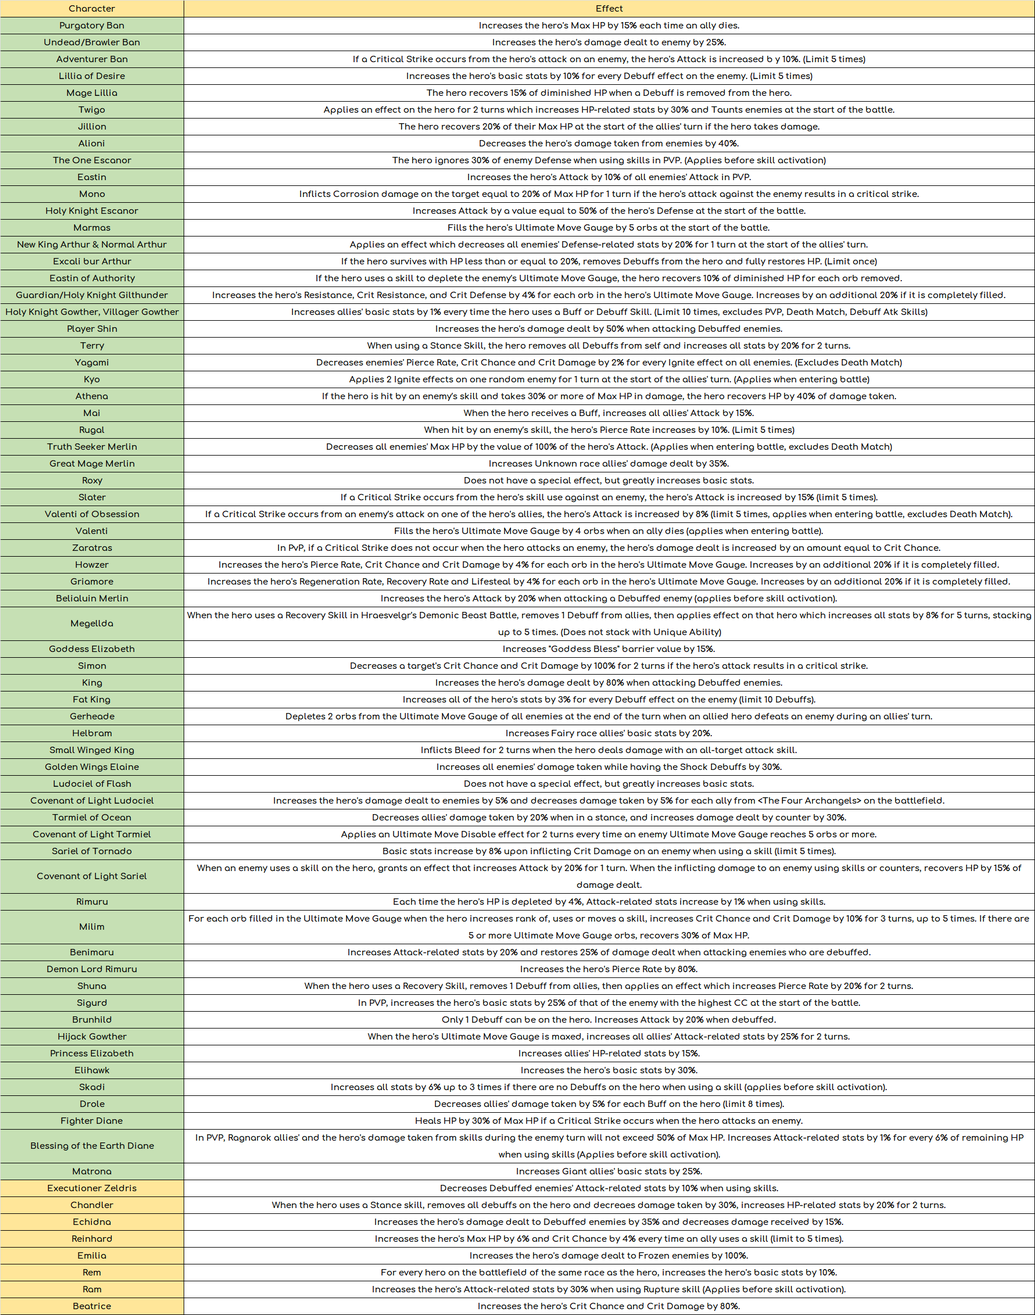
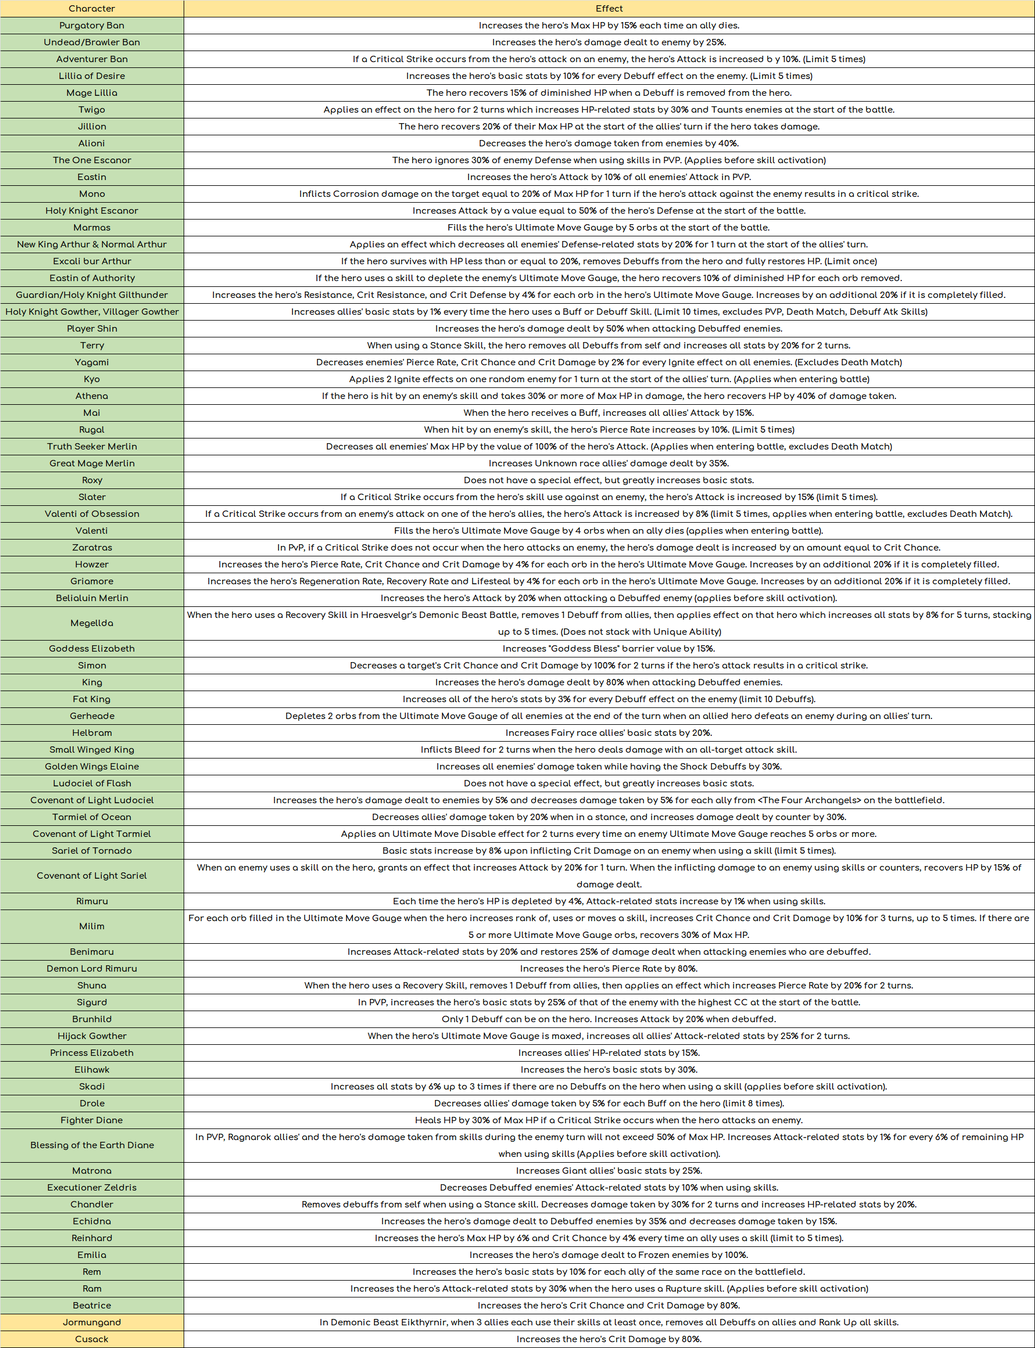
patch notes

Changed region(s): [[0.0, 0.0, 1.0, 1.0]]

diff --git a/patchnotes.html b/patchnotes.html
@@ -115,164 +115,82 @@
 				<div class="container pb-3 img-responsive" style="text-align: center; justify-content: center;">
 					<img src="https://7taizai.netmarble.jp/file/imgs/a32a7270.png" style="max-width:100%; max-height:100%;" loading="lazy">
 				</div>
-<!--
+
 				<hr style="border-color: white">
 
-				<p><b><u>■ New PVE content - Labyrinth</u></b></p>
+				<p><b><u>■ Chapter 24.5</u></b></p>
 				<div class="container pb-3 img-responsive" style="text-align: center; justify-content: center;">
-					<img src="https://7taizai.netmarble.jp/file/imgs/77670cbd.png" style="max-width:100%; max-height:100%;" loading="lazy">
-					<img src="https://7taizai.netmarble.jp/file/imgs/d9c2fdcf.png" style="max-width:100%; max-height:100%;" loading="lazy">
-				</div>
-				<p>・ 30 AP per entry</p>
-				<p>・ Max 4 unit (no links)</p>
-				<p>・ Characters used will all start with SSR Lv.1 stats (you need to own the character, the unique skill is unlocked)</p>
-				<p>・ Venture into the labyrinth, make your character stronger and conquer the labyrinth</p>
-				<p>・ Rogue-like style, if failed -> start from beginning</p>
-				<p>・ No artifact, equipment, costume, relic and zodiac stats will be used</p>
-				<p>・ Accumulate "passives" earned throughout the labyrinth</p>
-				<p>・ Earn item to level up, awaken and level up ult (?) and grow your character</p>
-				<p>Item drop [Fragment of Labyrinth]</p>
-				<div class="container pb-3 img-responsive" style="text-align: center; justify-content: center;">
-					<img src="https://7taizai.netmarble.jp/file/imgs/ef2d19cf.png" style="max-width:100%; max-height:100%;" loading="lazy">
-				</div>
-				<p>Completion reward</p>
-				<div class="container pb-3 img-responsive" style="text-align: center; justify-content: center;">
-					<img src="https://7taizai.netmarble.jp/file/imgs/1f600850.png" style="max-width:100%; max-height:100%;" loading="lazy">
+					<img src="https://7taizai.netmarble.jp/file/imgs/83b621f6.png" style="max-width:100%; max-height:100%;" loading="lazy">
 				</div>
 
 				<hr style="border-color: white">
 
 				<p><b><u>■ New Costumes</u></b></p>
 				<div class="container pb-3 img-responsive" style="text-align: center; justify-content: center;">
-					<img src="https://7taizai.netmarble.jp/file/imgs/998681cc.png" style="max-width:100%; max-height:100%;" loading="lazy">
+					<img src="https://7taizai.netmarble.jp/file/imgs/35620662.png" style="max-width:100%; max-height:100%;" loading="lazy">
 				</div>
 				<div class="container pb-3 img-responsive" style="text-align: center; justify-content: center;">
-					<img src="https://7taizai.netmarble.jp/file/imgs/7a7e60c4.png" style="max-width:100%; max-height:100%;" loading="lazy">
+					<img src="https://7taizai.netmarble.jp/file/imgs/a3eca76d.png" style="max-width:100%; max-height:100%;" loading="lazy">
 				</div>
 
-				<p><b><u>■ Artifact related to demonic beast battles added</u></b></p>
+				<p><b><u>■ Artifact Card Added (DL Celebration)</u></b></p>
 				<div class="container pb-3 img-responsive" style="text-align: center; justify-content: center;">
-					<p>In Demonic Beast Battle, increases basic stats of allies by 2/4/6/8/10%, nullify Freeze effect when you have 5 or more ultimate move gauge orbs. <br>Card pack obtainable from: Demonic Beast Eikthyrnir, Yggdrasil exchange shop, PVP shop, tower of trial floor 22, village shop</p>
+					<p>Increases HP-related stats of Unknown race allies by 1/2/3/4/5%, decreases damage taken by allies with Debuffs by 2/4/6/8/10%. <br>Card pack obtainable from: Hawk's Lucky Card Event, Hawk Exchange</p>
 				</div>
 
 				<hr style="border-color: white">
 
 				<p><b><u>■ Relic</u></b></p>
-				<p>Chandler: When the hero uses a Stance skill, removes all debuffs on the hero and decreaes damage taken by 30%, increases HP-related stats by 20% for 2 turns.</p>
+				<p>Jormungand: In Demonic Beast Eikthyrnir, when 3 allies each use their skills at least once, removes all Debuffs on allies and Rank Up all skills.<br>Cusack: Increases the hero's Crit Damage by 80%.</p>
 
 				<hr style="border-color: white">
 
-				<p><b><u>■ System Changes (important ones)</u></b></p>
-
-				<p><b><u>■ Added withdrawal from account deactivation</u></b></p>
-				<div class="container pb-3 img-responsive" style="text-align: center; justify-content: center;">
-					<img src="https://7taizai.netmarble.jp/file/imgs/a044ed38.png" style="max-width:100%; max-height:100%;" loading="lazy">
-				</div>
-				<p>If no withdrawal request is sent within 30 days of deactivating, you will not be able to login into the game</p>
-				<p>Not available on PC clients</p>
-
 				<p><b><u>■ Event</u></b></p>
 
-				<p><b><u>■ Costume reruns (New Legends, School)</u></b></p>
+				<p><b><u>■ Login Bonus</u></b></p>
 				<div class="container pb-3 img-responsive" style="text-align: center; justify-content: center;">
-					<img src="https://7taizai.netmarble.jp/file/imgs/3b6a95cd.png" style="max-width:100%; max-height:100%;" loading="lazy">
+					<img src="https://7taizai.netmarble.jp/file/imgs/48058721.png" style="max-width:100%; max-height:100%;" loading="lazy">
 				</div>
 				<div class="container pb-3 img-responsive" style="text-align: center; justify-content: center;">
-					<img src="https://7taizai.netmarble.jp/file/imgs/799466ce.png" style="max-width:100%; max-height:100%;" loading="lazy">
-				</div>
-				<div class="container pb-3 img-responsive" style="text-align: center; justify-content: center;">
-					<img src="https://7taizai.netmarble.jp/file/imgs/ae08a5b8.png" style="max-width:100%; max-height:100%;" loading="lazy">
-				</div>
-				<div class="container pb-3 img-responsive" style="text-align: center; justify-content: center;">
-					<img src="https://7taizai.netmarble.jp/file/imgs/b228671f.png" style="max-width:100%; max-height:100%;" loading="lazy">
+					<img src="https://7taizai.netmarble.jp/file/imgs/e71e178e.png" style="max-width:100%; max-height:100%;" loading="lazy">
 				</div>
 
-				<p><b><u>■ Special mission (part 2)</u></b></p>
+				<p><b><u>■ Special mission</u></b></p>
 				<div class="container pb-3 img-responsive" style="text-align: center; justify-content: center;">
 					<img src="images/patchnotes/29sep2022/specialmission.png" style="max-width:100%; max-height:100%;" loading="lazy">
 				</div>
 
-				<p><b><u>■ Fort Solgres Reward Dungeon</u></b></p>
+				<p><b><u>■ Hawk's Lucky Card Event</u></b></p>
 				<div class="container pb-3 img-responsive" style="text-align: center; justify-content: center;">
-					<img src="https://7taizai.netmarble.jp/file/imgs/6775f386.png" style="max-width:100%; max-height:100%;" loading="lazy">
+					<img src="https://7taizai.netmarble.jp/file/imgs/2a573dab.png" style="max-width:100%; max-height:100%;" loading="lazy">
+				</div>
+				<div class="container pb-3 img-responsive" style="text-align: center; justify-content: center;">
+					<img src="https://7taizai.netmarble.jp/file/imgs/282be768.png" style="max-width:100%; max-height:100%;" loading="lazy">
+				</div>
+				<div class="container pb-3 img-responsive" style="text-align: center; justify-content: center;">
+					<img src="https://7taizai.netmarble.jp/file/imgs/6efc2caf.png" style="max-width:100%; max-height:100%;" loading="lazy">
 				</div>
 
-				<p><b><u>■ Liones Fireworks Festival Event</u></b></p>
+				<p><b><u>■ Giant Hawk Event</u></b></p>
 				<div class="container pb-3 img-responsive" style="text-align: center; justify-content: center;">
-					<img src="https://7taizai.netmarble.jp/file/imgs/0fb95d68.png" style="max-width:100%; max-height:100%;" loading="lazy">
+					<img src="https://7taizai.netmarble.jp/file/imgs/04e625ad.png" style="max-width:100%; max-height:100%;" loading="lazy">
 				</div>
 				<div class="container pb-3 img-responsive" style="text-align: center; justify-content: center;">
-					<img src="https://7taizai.netmarble.jp/file/imgs/1c6e3f59.png" style="max-width:100%; max-height:100%;" loading="lazy">
+					<img src="https://7taizai.netmarble.jp/file/imgs/562390cb.png" style="max-width:100%; max-height:100%;" loading="lazy">
 				</div>
 				<div class="container pb-3 img-responsive" style="text-align: center; justify-content: center;">
-					<img src="https://7taizai.netmarble.jp/file/imgs/bdd6c8aa.png" style="max-width:100%; max-height:100%;" loading="lazy">
-				</div>
-				<p>Village rewards (1-6 top to bottom)</p>
-				<div class="container pb-3 img-responsive" style="text-align: center; justify-content: center;">
-					<img src="https://7taizai.netmarble.jp/file/imgs/978d567b.png" style="max-width:100%; max-height:100%;" loading="lazy">
-				</div>
-				<p>Event Mission</p>
-				<div class="container pb-3 img-responsive" style="text-align: center; justify-content: center;">
-					<img src="https://7taizai.netmarble.jp/file/imgs/d2afd9fe.png" style="max-width:100%; max-height:100%;" loading="lazy">
-					<img src="https://7taizai.netmarble.jp/file/imgs/59ea9183.png" style="max-width:100%; max-height:100%;" loading="lazy">
+					<img src="https://7taizai.netmarble.jp/file/imgs/771e693e.png" style="max-width:100%; max-height:100%;" loading="lazy">
 				</div>
 
-				<p><b><u>■ Final Boss Taizoo, Twigo and Waillo</u></b></p>
+				<p><b><u>■ Lucky Bag</u></b></p>
 				<div class="container pb-3 img-responsive" style="text-align: center; justify-content: center;">
-					<img src="https://7taizai.netmarble.jp/file/imgs/07dbbdc2.png" style="max-width:100%; max-height:100%;" loading="lazy">
-					<img src="https://7taizai.netmarble.jp/file/imgs/e06b6746.png" style="max-width:100%; max-height:100%;" loading="lazy">
-				</div>
-				<p>Score reward</p>
-				<div class="container pb-3 img-responsive" style="text-align: center; justify-content: center;">
-					<img src="https://7taizai.netmarble.jp/file/imgs/7cacae2a.png" style="max-width:100%; max-height:100%;" loading="lazy">
-				</div>
-				<p>Exchange shop</p>
-				<div class="container pb-3 img-responsive" style="text-align: center; justify-content: center;">
-					<img src="https://7taizai.netmarble.jp/file/imgs/b53ec363.png" style="max-width:100%; max-height:100%;" loading="lazy">
+					<img src="https://7taizai.netmarble.jp/file/imgs/7c350fab.png" style="max-width:100%; max-height:100%;" loading="lazy">
 				</div>
 
-				<p><b><u>■ Hawk Matching Event</u></b></p>
+				<p><b><u>■ King Exchange Event</u></b></p>
 				<div class="container pb-3 img-responsive" style="text-align: center; justify-content: center;">
-					<img src="https://7taizai.netmarble.jp/file/imgs/a9479c09.png" style="max-width:100%; max-height:100%;" loading="lazy">
+					<img src="https://7taizai.netmarble.jp/file/imgs/da911a27.png" style="max-width:100%; max-height:100%;" loading="lazy">
 				</div>
-
-				<p>Matching reward</p>
-				<div class="container pb-3 img-responsive" style="text-align: center; justify-content: center;">
-					<img src="https://7taizai.netmarble.jp/file/imgs/d137da79.png" style="max-width:100%; max-height:100%;" loading="lazy">
-				</div>
-
-				<p>Score reward</p>
-				<div class="container pb-3 img-responsive" style="text-align: center; justify-content: center;">
-					<img src="https://7taizai.netmarble.jp/file/imgs/7e384c1a.png" style="max-width:100%; max-height:100%;" loading="lazy">
-				</div>
-
-				<p><b><u>■ Growth support event</u></b></p>
-				<p>Daily mission increased reward</p>
-				<div class="container pb-3 img-responsive" style="text-align: center; justify-content: center;">
-					<img src="https://7taizai.netmarble.jp/file/imgs/af1aa3ae.png" style="max-width:100%; max-height:100%;" loading="lazy">
-				</div>
-				<p>Brawl special box (new reward right side)</p>
-				<div class="container pb-3 img-responsive" style="text-align: center; justify-content: center;">
-					<img src="https://7taizai.netmarble.jp/file/imgs/81087777.png" style="max-width:100%; max-height:100%;" loading="lazy">
-				</div>
-				<p>PVP cumulated win rwards</p>
-				<div class="container pb-3 img-responsive" style="text-align: center; justify-content: center;">
-					<img src="https://7taizai.netmarble.jp/file/imgs/553998e4.png" style="max-width:100%; max-height:100%;" loading="lazy">
-				</div>
-				<p>Top 100 PVP (ungeared) reward</p>
-				<div class="container pb-3 img-responsive" style="text-align: center; justify-content: center;">
-					<img src="https://7taizai.netmarble.jp/file/imgs/e1987068.png" style="max-width:100%; max-height:100%;" loading="lazy">
-				</div>
-
-				<p>Village donation event</p>
-
-				<hr style="border-color: white">
-
-				<p><b><u>■ Bug Fixes</u></b></p>
-				<p>Fixes Assault Mode Meliodas's text in unique from 2 turns to 3 turns.</p>
-				<p>Fixes Berserk Estarossa's text in unique to for every Darkness and Encroach.</p>
-			</div>
--->
 
 
 		</div>

diff --git a/patchnotes29sep2022.html b/patchnotes29sep2022.html
@@ -115,164 +115,82 @@
 				<div class="container pb-3 img-responsive" style="text-align: center; justify-content: center;">
 					<img src="https://7taizai.netmarble.jp/file/imgs/a32a7270.png" style="max-width:100%; max-height:100%;" loading="lazy">
 				</div>
-<!--
+
 				<hr style="border-color: white">
 
-				<p><b><u>■ New PVE content - Labyrinth</u></b></p>
+				<p><b><u>■ Chapter 24.5</u></b></p>
 				<div class="container pb-3 img-responsive" style="text-align: center; justify-content: center;">
-					<img src="https://7taizai.netmarble.jp/file/imgs/77670cbd.png" style="max-width:100%; max-height:100%;" loading="lazy">
-					<img src="https://7taizai.netmarble.jp/file/imgs/d9c2fdcf.png" style="max-width:100%; max-height:100%;" loading="lazy">
-				</div>
-				<p>・ 30 AP per entry</p>
-				<p>・ Max 4 unit (no links)</p>
-				<p>・ Characters used will all start with SSR Lv.1 stats (you need to own the character, the unique skill is unlocked)</p>
-				<p>・ Venture into the labyrinth, make your character stronger and conquer the labyrinth</p>
-				<p>・ Rogue-like style, if failed -> start from beginning</p>
-				<p>・ No artifact, equipment, costume, relic and zodiac stats will be used</p>
-				<p>・ Accumulate "passives" earned throughout the labyrinth</p>
-				<p>・ Earn item to level up, awaken and level up ult (?) and grow your character</p>
-				<p>Item drop [Fragment of Labyrinth]</p>
-				<div class="container pb-3 img-responsive" style="text-align: center; justify-content: center;">
-					<img src="https://7taizai.netmarble.jp/file/imgs/ef2d19cf.png" style="max-width:100%; max-height:100%;" loading="lazy">
-				</div>
-				<p>Completion reward</p>
-				<div class="container pb-3 img-responsive" style="text-align: center; justify-content: center;">
-					<img src="https://7taizai.netmarble.jp/file/imgs/1f600850.png" style="max-width:100%; max-height:100%;" loading="lazy">
+					<img src="https://7taizai.netmarble.jp/file/imgs/83b621f6.png" style="max-width:100%; max-height:100%;" loading="lazy">
 				</div>
 
 				<hr style="border-color: white">
 
 				<p><b><u>■ New Costumes</u></b></p>
 				<div class="container pb-3 img-responsive" style="text-align: center; justify-content: center;">
-					<img src="https://7taizai.netmarble.jp/file/imgs/998681cc.png" style="max-width:100%; max-height:100%;" loading="lazy">
+					<img src="https://7taizai.netmarble.jp/file/imgs/35620662.png" style="max-width:100%; max-height:100%;" loading="lazy">
 				</div>
 				<div class="container pb-3 img-responsive" style="text-align: center; justify-content: center;">
-					<img src="https://7taizai.netmarble.jp/file/imgs/7a7e60c4.png" style="max-width:100%; max-height:100%;" loading="lazy">
+					<img src="https://7taizai.netmarble.jp/file/imgs/a3eca76d.png" style="max-width:100%; max-height:100%;" loading="lazy">
 				</div>
 
-				<p><b><u>■ Artifact related to demonic beast battles added</u></b></p>
+				<p><b><u>■ Artifact Card Added (DL Celebration)</u></b></p>
 				<div class="container pb-3 img-responsive" style="text-align: center; justify-content: center;">
-					<p>In Demonic Beast Battle, increases basic stats of allies by 2/4/6/8/10%, nullify Freeze effect when you have 5 or more ultimate move gauge orbs. <br>Card pack obtainable from: Demonic Beast Eikthyrnir, Yggdrasil exchange shop, PVP shop, tower of trial floor 22, village shop</p>
+					<p>Increases HP-related stats of Unknown race allies by 1/2/3/4/5%, decreases damage taken by allies with Debuffs by 2/4/6/8/10%. <br>Card pack obtainable from: Hawk's Lucky Card Event, Hawk Exchange</p>
 				</div>
 
 				<hr style="border-color: white">
 
 				<p><b><u>■ Relic</u></b></p>
-				<p>Chandler: When the hero uses a Stance skill, removes all debuffs on the hero and decreaes damage taken by 30%, increases HP-related stats by 20% for 2 turns.</p>
+				<p>Jormungand: In Demonic Beast Eikthyrnir, when 3 allies each use their skills at least once, removes all Debuffs on allies and Rank Up all skills.<br>Cusack: Increases the hero's Crit Damage by 80%.</p>
 
 				<hr style="border-color: white">
 
-				<p><b><u>■ System Changes (important ones)</u></b></p>
-
-				<p><b><u>■ Added withdrawal from account deactivation</u></b></p>
-				<div class="container pb-3 img-responsive" style="text-align: center; justify-content: center;">
-					<img src="https://7taizai.netmarble.jp/file/imgs/a044ed38.png" style="max-width:100%; max-height:100%;" loading="lazy">
-				</div>
-				<p>If no withdrawal request is sent within 30 days of deactivating, you will not be able to login into the game</p>
-				<p>Not available on PC clients</p>
-
 				<p><b><u>■ Event</u></b></p>
 
-				<p><b><u>■ Costume reruns (New Legends, School)</u></b></p>
+				<p><b><u>■ Login Bonus</u></b></p>
 				<div class="container pb-3 img-responsive" style="text-align: center; justify-content: center;">
-					<img src="https://7taizai.netmarble.jp/file/imgs/3b6a95cd.png" style="max-width:100%; max-height:100%;" loading="lazy">
+					<img src="https://7taizai.netmarble.jp/file/imgs/48058721.png" style="max-width:100%; max-height:100%;" loading="lazy">
 				</div>
 				<div class="container pb-3 img-responsive" style="text-align: center; justify-content: center;">
-					<img src="https://7taizai.netmarble.jp/file/imgs/799466ce.png" style="max-width:100%; max-height:100%;" loading="lazy">
-				</div>
-				<div class="container pb-3 img-responsive" style="text-align: center; justify-content: center;">
-					<img src="https://7taizai.netmarble.jp/file/imgs/ae08a5b8.png" style="max-width:100%; max-height:100%;" loading="lazy">
-				</div>
-				<div class="container pb-3 img-responsive" style="text-align: center; justify-content: center;">
-					<img src="https://7taizai.netmarble.jp/file/imgs/b228671f.png" style="max-width:100%; max-height:100%;" loading="lazy">
+					<img src="https://7taizai.netmarble.jp/file/imgs/e71e178e.png" style="max-width:100%; max-height:100%;" loading="lazy">
 				</div>
 
-				<p><b><u>■ Special mission (part 2)</u></b></p>
+				<p><b><u>■ Special mission</u></b></p>
 				<div class="container pb-3 img-responsive" style="text-align: center; justify-content: center;">
 					<img src="images/patchnotes/29sep2022/specialmission.png" style="max-width:100%; max-height:100%;" loading="lazy">
 				</div>
 
-				<p><b><u>■ Fort Solgres Reward Dungeon</u></b></p>
+				<p><b><u>■ Hawk's Lucky Card Event</u></b></p>
 				<div class="container pb-3 img-responsive" style="text-align: center; justify-content: center;">
-					<img src="https://7taizai.netmarble.jp/file/imgs/6775f386.png" style="max-width:100%; max-height:100%;" loading="lazy">
+					<img src="https://7taizai.netmarble.jp/file/imgs/2a573dab.png" style="max-width:100%; max-height:100%;" loading="lazy">
+				</div>
+				<div class="container pb-3 img-responsive" style="text-align: center; justify-content: center;">
+					<img src="https://7taizai.netmarble.jp/file/imgs/282be768.png" style="max-width:100%; max-height:100%;" loading="lazy">
+				</div>
+				<div class="container pb-3 img-responsive" style="text-align: center; justify-content: center;">
+					<img src="https://7taizai.netmarble.jp/file/imgs/6efc2caf.png" style="max-width:100%; max-height:100%;" loading="lazy">
 				</div>
 
-				<p><b><u>■ Liones Fireworks Festival Event</u></b></p>
+				<p><b><u>■ Giant Hawk Event</u></b></p>
 				<div class="container pb-3 img-responsive" style="text-align: center; justify-content: center;">
-					<img src="https://7taizai.netmarble.jp/file/imgs/0fb95d68.png" style="max-width:100%; max-height:100%;" loading="lazy">
+					<img src="https://7taizai.netmarble.jp/file/imgs/04e625ad.png" style="max-width:100%; max-height:100%;" loading="lazy">
 				</div>
 				<div class="container pb-3 img-responsive" style="text-align: center; justify-content: center;">
-					<img src="https://7taizai.netmarble.jp/file/imgs/1c6e3f59.png" style="max-width:100%; max-height:100%;" loading="lazy">
+					<img src="https://7taizai.netmarble.jp/file/imgs/562390cb.png" style="max-width:100%; max-height:100%;" loading="lazy">
 				</div>
 				<div class="container pb-3 img-responsive" style="text-align: center; justify-content: center;">
-					<img src="https://7taizai.netmarble.jp/file/imgs/bdd6c8aa.png" style="max-width:100%; max-height:100%;" loading="lazy">
-				</div>
-				<p>Village rewards (1-6 top to bottom)</p>
-				<div class="container pb-3 img-responsive" style="text-align: center; justify-content: center;">
-					<img src="https://7taizai.netmarble.jp/file/imgs/978d567b.png" style="max-width:100%; max-height:100%;" loading="lazy">
-				</div>
-				<p>Event Mission</p>
-				<div class="container pb-3 img-responsive" style="text-align: center; justify-content: center;">
-					<img src="https://7taizai.netmarble.jp/file/imgs/d2afd9fe.png" style="max-width:100%; max-height:100%;" loading="lazy">
-					<img src="https://7taizai.netmarble.jp/file/imgs/59ea9183.png" style="max-width:100%; max-height:100%;" loading="lazy">
+					<img src="https://7taizai.netmarble.jp/file/imgs/771e693e.png" style="max-width:100%; max-height:100%;" loading="lazy">
 				</div>
 
-				<p><b><u>■ Final Boss Taizoo, Twigo and Waillo</u></b></p>
+				<p><b><u>■ Lucky Bag</u></b></p>
 				<div class="container pb-3 img-responsive" style="text-align: center; justify-content: center;">
-					<img src="https://7taizai.netmarble.jp/file/imgs/07dbbdc2.png" style="max-width:100%; max-height:100%;" loading="lazy">
-					<img src="https://7taizai.netmarble.jp/file/imgs/e06b6746.png" style="max-width:100%; max-height:100%;" loading="lazy">
-				</div>
-				<p>Score reward</p>
-				<div class="container pb-3 img-responsive" style="text-align: center; justify-content: center;">
-					<img src="https://7taizai.netmarble.jp/file/imgs/7cacae2a.png" style="max-width:100%; max-height:100%;" loading="lazy">
-				</div>
-				<p>Exchange shop</p>
-				<div class="container pb-3 img-responsive" style="text-align: center; justify-content: center;">
-					<img src="https://7taizai.netmarble.jp/file/imgs/b53ec363.png" style="max-width:100%; max-height:100%;" loading="lazy">
+					<img src="https://7taizai.netmarble.jp/file/imgs/7c350fab.png" style="max-width:100%; max-height:100%;" loading="lazy">
 				</div>
 
-				<p><b><u>■ Hawk Matching Event</u></b></p>
+				<p><b><u>■ King Exchange Event</u></b></p>
 				<div class="container pb-3 img-responsive" style="text-align: center; justify-content: center;">
-					<img src="https://7taizai.netmarble.jp/file/imgs/a9479c09.png" style="max-width:100%; max-height:100%;" loading="lazy">
+					<img src="https://7taizai.netmarble.jp/file/imgs/da911a27.png" style="max-width:100%; max-height:100%;" loading="lazy">
 				</div>
-
-				<p>Matching reward</p>
-				<div class="container pb-3 img-responsive" style="text-align: center; justify-content: center;">
-					<img src="https://7taizai.netmarble.jp/file/imgs/d137da79.png" style="max-width:100%; max-height:100%;" loading="lazy">
-				</div>
-
-				<p>Score reward</p>
-				<div class="container pb-3 img-responsive" style="text-align: center; justify-content: center;">
-					<img src="https://7taizai.netmarble.jp/file/imgs/7e384c1a.png" style="max-width:100%; max-height:100%;" loading="lazy">
-				</div>
-
-				<p><b><u>■ Growth support event</u></b></p>
-				<p>Daily mission increased reward</p>
-				<div class="container pb-3 img-responsive" style="text-align: center; justify-content: center;">
-					<img src="https://7taizai.netmarble.jp/file/imgs/af1aa3ae.png" style="max-width:100%; max-height:100%;" loading="lazy">
-				</div>
-				<p>Brawl special box (new reward right side)</p>
-				<div class="container pb-3 img-responsive" style="text-align: center; justify-content: center;">
-					<img src="https://7taizai.netmarble.jp/file/imgs/81087777.png" style="max-width:100%; max-height:100%;" loading="lazy">
-				</div>
-				<p>PVP cumulated win rwards</p>
-				<div class="container pb-3 img-responsive" style="text-align: center; justify-content: center;">
-					<img src="https://7taizai.netmarble.jp/file/imgs/553998e4.png" style="max-width:100%; max-height:100%;" loading="lazy">
-				</div>
-				<p>Top 100 PVP (ungeared) reward</p>
-				<div class="container pb-3 img-responsive" style="text-align: center; justify-content: center;">
-					<img src="https://7taizai.netmarble.jp/file/imgs/e1987068.png" style="max-width:100%; max-height:100%;" loading="lazy">
-				</div>
-
-				<p>Village donation event</p>
-
-				<hr style="border-color: white">
-
-				<p><b><u>■ Bug Fixes</u></b></p>
-				<p>Fixes Assault Mode Meliodas's text in unique from 2 turns to 3 turns.</p>
-				<p>Fixes Berserk Estarossa's text in unique to for every Darkness and Encroach.</p>
-			</div>
--->
 
 
 		</div>
